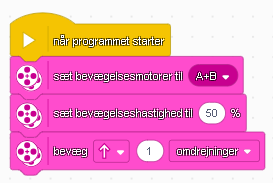
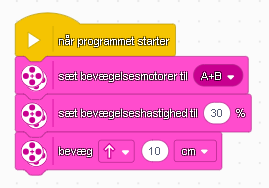
Add files via upload

diff --git a/README.md b/README.md
@@ -2,17 +2,19 @@
 
 Byg en robot med tre hjul sat på en hub (robottens krop): 2 motorer og 1 drejehjul - ligesome denne:
 
-![](spike-robot.jpeg)
+![](spike-robot.jpg)
 
 Forbind frihjulet til hubben:
 
-![](spike-frihjul.jpeg)
+![](spike-frihjul.jpg)
 
 Forbind hjulet til motoren:
-![](spike-hjul-1.jpeg)
+
+![](spike-hjul-1.jpg)
 
 Forbind motoren til hubben:
-![](spike-hjul-2.jpeg)
+
+![](spike-hjul-2.jpg)
 
 ### Så er du klar!
 
@@ -38,13 +40,14 @@ Når du er forbundet ser det sådan her ud i toppen af vinduet:
 
 ![](tilslut-status.png)
 
-# Brug kategori bevægelse (LYSERØD/PINK)
+# Brug kategori lyserød/bevægelse
 
 I løbet af 3 opgaver skal I mestre bevægelses blokkene. I skal programmere robotten til at køre lige ud, dreje 90 grader og køre rundt i firkant og endelig køre rundt i en cirkel.
 
 ## Opgave 1: bevæg i en lige linje
+
 Under beægelse skal du bruge, disse tre blokke for at få robotten til at køre i en lige linje:
- 
+
 ![](bevæg-sæt-bevægelsesmotorer.png)
 
 ![](bevæg-sæt-bevægelseshastighed.png)
@@ -52,7 +55,8 @@ Under beægelse skal du bruge, disse tre blokke for at få robotten til at køre
 ![](bevæg-cm.png)
 
 #### Husk at skifte fra omdrejninger til cm!
-#### Jo hurtigere robotten kører jo mere upræcis - start med 30% eller langsommere!	
+
+#### Jo hurtigere robotten kører jo mere upræcis - start med 30% eller langsommere!
 
 Sæt dem efter blokken "når programmet starter", med blokken "bevæg [tal] omdrejninger" til sidst:
 
@@ -87,10 +91,12 @@ Under bevægelse skal du bruge "bevæg [retning] [50] [omdrejninger]":
 
 ### Du skal finde ud af hvor mange omdrejninger motoren skal tage for at dreje robotten 90°,180°,270°,360° grader: hint (1) brug kommatal (2) papir og blyant til at måle hvor meget robotten har drejet!
 
-
 ### ANTAL OMDREJNINGER 90°: _______
+
 ### ANTAL OMDREJNINGER 180°: _______
+
 ### ANTAL OMDREJNINGER 270°: _______
+
 ### ANTAL OMDREJNINGER 360°: _______
 
 ![](grader.png)
@@ -116,13 +122,21 @@ Brug "bevæg [højre] [20] [omdrejninger]".
 
 ### ANTAL OMDREJNINGER: _______
 
-
 Skift nu hvor skarpt robotten drejer til **100**. Hvor mange omgange kører den?
 
 ### ANTAL omgange: _______
 
+# Eksempel: skraber & klo
 
-# Sensor (LYSEBLÅ)
+![](byg-skraber.jpg)
+
+![](byg-skraber-monteret.jpg)
+
+![](byg-skraber-klo.jpg)
+
+![](byg-skraber-klo-monteret.jpg)
+
+# EKSTRA: Sensor (LYSEBLÅ)
 
 ## Opgave 6: ultralyd-sensor
 
@@ -158,7 +172,6 @@ Det færdige program ser sådan her ud. Find ud af hvor meget I skal trække fra
 
 ![](kør-tilkasse.png)
 
-
 # Selvkørende robot med ultralyd
 
 ## Opgave 7: motorstyring - kør lige
@@ -174,6 +187,7 @@ For at vælge flere motorer til at stoppe skal du trykke på A og vælge flere. 
 ![](motorer-stop-flere.png)
 
 Programmet skrevet med almindelige ord er sådan:
+
 * A+B Sæt hastighed til 35%
 * A Start motor, retning venstre
 * B Start motor, retning højre
@@ -187,6 +201,7 @@ Når robotten har kørt i 2 sekunder skal den dreje og køre i en anden retning.
 Når begge motorer kører i samme retning drejer robotten.
 
 Med samme blokke som sidste opgave lave nu følgende program med blokke til at styre robotten:
+
 * A+B Sæt hastighed til 35%
 * A Start motor, retning venstre
 * B Start motor, retning højre
@@ -217,20 +232,21 @@ Programmets kontrol-blokke skal stilles sådan op:
 ![](autonom-robot-struktur.png)
 
 Skriver vi koden med ord ser det sådan ud:
+
 * A+B Sæt hastighed til 35%
 * A Start motor, retning: venstre
 * B Start motor, retning: højre
 * For evigt:
-	- hvis <D er tættere på end **tal** cm> så
-		+ A Start motor, retning: venstre
-		+ B Start motor, retning: højre
-		+ vent 2 sekunder
-		+ A Start motor, retning: venstre
-		+ B Start motor, retning: venstre
-		+ vent 1 sekund
-	- ellers:
-		+ A Start motor, retning: venstre
-		+ B Start motor, retning: højre
+  - hvis <D er tættere på end **tal** cm> så
+    + A Start motor, retning: venstre
+    + B Start motor, retning: højre
+    + vent 2 sekunder
+    + A Start motor, retning: venstre
+    + B Start motor, retning: venstre
+    + vent 1 sekund
+  - ellers:
+    + A Start motor, retning: venstre
+    + B Start motor, retning: højre
 
 ## Opgave 10: mere tilfældighed!
 
@@ -243,15 +259,15 @@ Prøv nu at ændre hvordan den gør ved at sætte tilfældige tal ind i ventetid
 Kan du gøre det tilfældigt om den drejer til den ene eller den anden side - bliv inspireret af følgende kode skrevet med ord:
 
 * hvis tilfældigt tal mellem 0 og 1 er lig med 1, så:
-	- drej den ene vej
+  - drej den ene vej
 * ellers
-	- drej den anden vej
-	
- Brug disse blokke:
- 
- ![](autonom-robot-random-sving.png)
- 
- ## Opgave 12: styr robotten med farvesensoren
+  - drej den anden vej
+
+Brug disse blokke:
+
+![](autonom-robot-random-sving.png)
+
+## Opgave 12: styr robotten med farvesensoren
 
 ![](sensor-farve-monteret.jpg)
 
@@ -266,4 +282,3 @@ Brug f.eks. disse blokke til at køre frem, tilbage, venstre, højre og langsomt
 ![](sensor-farver-events.png)
 
 #### Det kan være en ide at robotten kører langsomt når den ikke ser nogen farver - f.eks. med motorhastighed 10-20%
-
